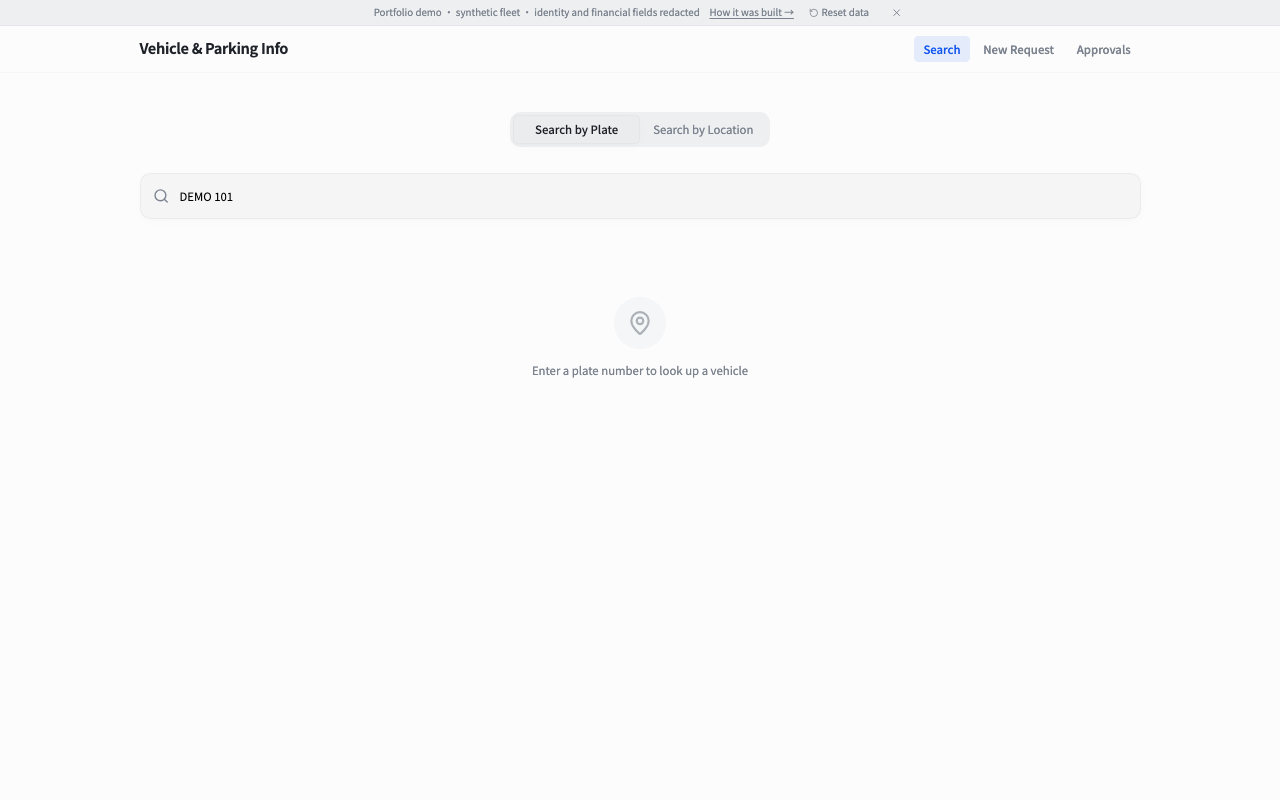
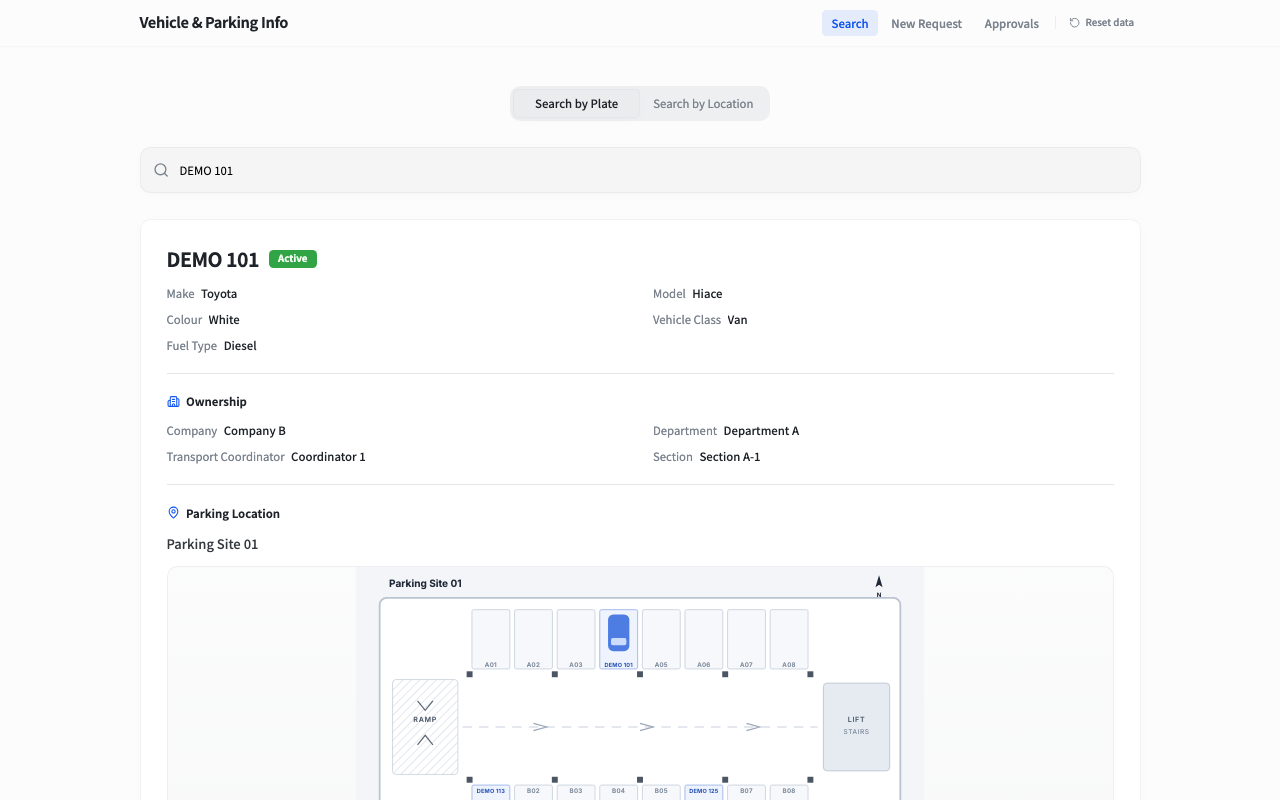
feat(v2): demo iframes render at native width and scale to fit; per-demo sizes; fleet cover reshot

diff --git a/app/components/project/DemoFrame.tsx b/app/components/project/DemoFrame.tsx
@@ -15,57 +15,50 @@ const getServerSnapshot = () => false;
 type Props = {
   url: string;
   title: string;
+  /** Visible height of the demo box in px. */
   height?: number;
+  /** The demo's native layout width in px. When the box is narrower, the iframe renders at this width and is scaled down to fit. */
+  width?: number;
   poster?: string;
   activateLabel: string;
   openLabel: string;
   mobileNote: string;
 };
 
-export default function DemoFrame({ url, title, height = 720, poster, activateLabel, openLabel, mobileNote }: Props) {
+export default function DemoFrame({ url, title, height = 720, width, poster, activateLabel, openLabel, mobileNote }: Props) {
   const isDesktop = useSyncExternalStore(subscribe, getSnapshot, getServerSnapshot);
   const [active, setActive] = useState(false);
+  const [scale, setScale] = useState(1);
+  const boxRef = useRef<HTMLDivElement>(null);
   const iframeRef = useRef<HTMLIFrameElement>(null);
 
-  // `inert` keeps the frame unfocusable until activated, so focus has to wait
-  // for the commit that removes it.
+  // Scale the iframe down when the box is narrower than the demo's native width.
+  useEffect(() => {
+    if (!isDesktop || !width || !boxRef.current) return;
+    const el = boxRef.current;
+    const update = () => setScale(Math.min(1, el.clientWidth / width));
+    update();
+    const ro = new ResizeObserver(update);
+    ro.observe(el);
+    return () => ro.disconnect();
+  }, [isDesktop, width]);
+
   useEffect(() => {
     if (active) iframeRef.current?.focus();
   }, [active]);
 
-  return (
-    <div
-      className="md:h-[var(--demo-h)] md:max-h-[80vh]"
-      style={{ "--demo-h": `${height}px` } as React.CSSProperties}
-    >
-      {isDesktop ? (
-        <div className="relative h-full border border-ink">
-          <iframe
-            ref={iframeRef}
-            src={url}
-            title={title}
-            loading="lazy"
-            sandbox="allow-scripts allow-same-origin allow-forms allow-popups allow-popups-to-escape-sandbox"
-            allow=""
-            referrerPolicy="strict-origin-when-cross-origin"
-            inert={!active}
-            className={`block w-full h-full bg-paper ${active ? "" : "pointer-events-none"}`}
-          />
-          {!active && (
-            <button
-              type="button"
-              onClick={() => setActive(true)}
-              className="absolute inset-0 flex items-end p-4 cursor-pointer"
-              aria-label={activateLabel}
-            >
-              <span className="border border-ink bg-paper px-3 py-1.5 text-[12px] font-medium">{activateLabel}</span>
-            </button>
-          )}
-        </div>
-      ) : (
+  const style = { "--demo-h": `${height}px` } as React.CSSProperties;
+
+  if (!isDesktop) {
+    return (
+      <div className="min-w-0 w-full md:h-[var(--demo-h)] md:max-h-[80vh]" style={style}>
         <div className="border border-ink">
           <div className="relative aspect-[16/10] border-b border-ink overflow-hidden">
-            {poster ? <Image src={poster} alt="" fill sizes="(min-width: 1024px) 1024px, 100vw" className="object-cover object-top" /> : <div className="hatch absolute inset-0" />}
+            {poster ? (
+              <Image src={poster} alt="" fill sizes="(min-width: 1024px) 1024px, 100vw" className="object-cover object-top" />
+            ) : (
+              <div className="hatch absolute inset-0" />
+            )}
           </div>
           <div className="flex flex-wrap items-center justify-between gap-3 px-4 py-3 text-[12px]">
             <span className="text-ink/70">{mobileNote}</span>
@@ -74,7 +67,41 @@ export default function DemoFrame({ url, title, height = 720, poster, activateLa
             </a>
           </div>
         </div>
-      )}
+      </div>
+    );
+  }
+
+  const scaled = width !== undefined && scale < 1;
+  const frameStyle: React.CSSProperties = scaled
+    ? { width, height: `${100 / scale}%`, transform: `scale(${scale})`, transformOrigin: "top left" }
+    : {};
+
+  return (
+    <div className="min-w-0 w-full md:h-[var(--demo-h)] md:max-h-[80vh]" style={style}>
+      <div ref={boxRef} className="relative h-full w-full max-w-full border border-ink overflow-hidden">
+        <iframe
+          ref={iframeRef}
+          src={url}
+          title={title}
+          loading="lazy"
+          sandbox="allow-scripts allow-same-origin allow-forms allow-popups allow-popups-to-escape-sandbox"
+          allow=""
+          referrerPolicy="strict-origin-when-cross-origin"
+          inert={!active}
+          style={frameStyle}
+          className={`block w-full h-full bg-paper ${active ? "" : "pointer-events-none"}`}
+        />
+        {!active && (
+          <button
+            type="button"
+            onClick={() => setActive(true)}
+            className="absolute inset-0 flex items-end p-4 cursor-pointer"
+            aria-label={activateLabel}
+          >
+            <span className="border border-ink bg-paper px-3 py-1.5 text-[12px] font-medium">{activateLabel}</span>
+          </button>
+        )}
+      </div>
     </div>
   );
 }

diff --git a/app/[locale]/projects/[slug]/page.tsx b/app/[locale]/projects/[slug]/page.tsx
@@ -98,6 +98,7 @@ export default async function ProjectPage({ params }: Props) {
             url={p.demo.url}
             title={p.title}
             height={p.demo.height}
+            width={p.demo.width}
             poster={p.demo.poster}
             activateLabel={t("activate")}
             openLabel={t("openDemo")}

diff --git a/lib/projects.ts b/lib/projects.ts
@@ -54,6 +54,8 @@ export type ProjectContent = {
     video?: string;
     poster?: string;
     height?: number;
+    /** Native layout width; DemoFrame scales the iframe down when the box is narrower. */
+    width?: number;
   };
   links: { label: string; url: string }[];
   facts: { label: string; value: string }[];
